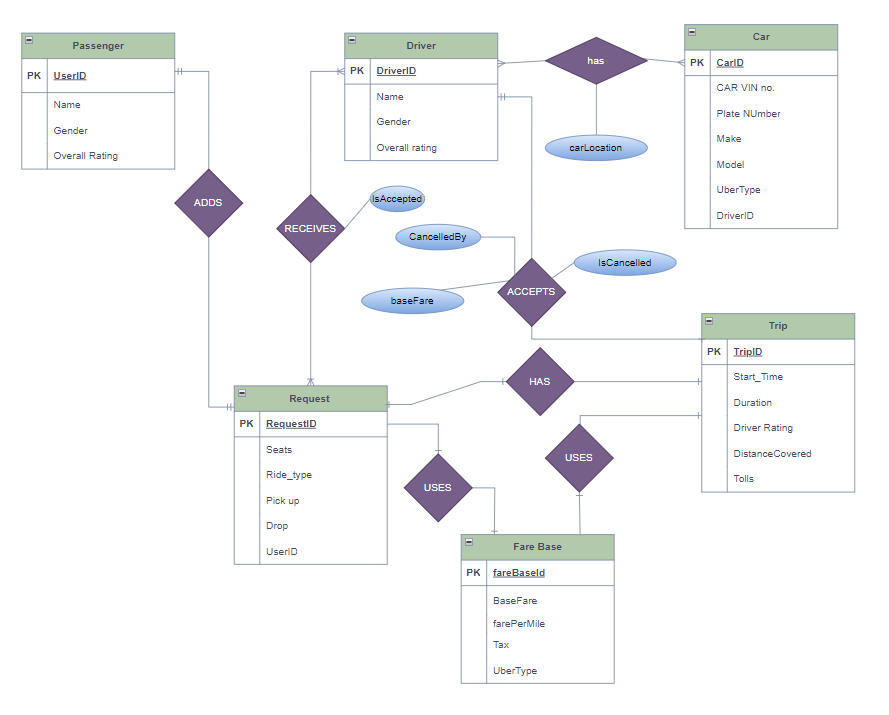
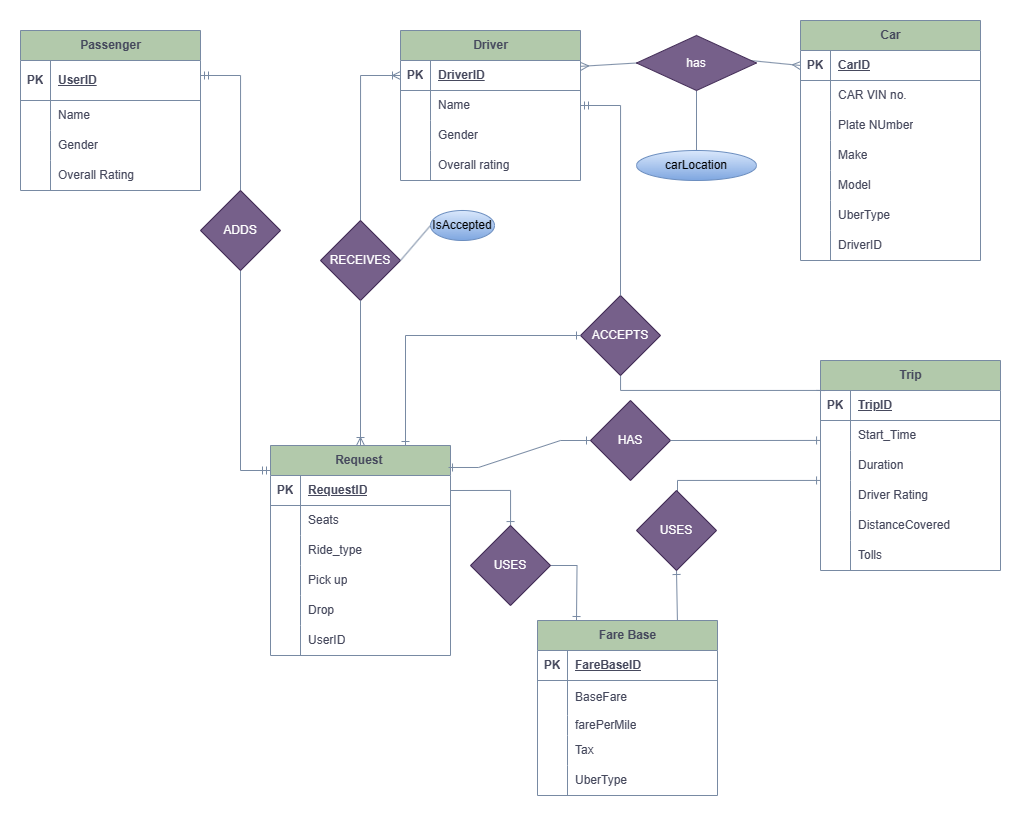
Final Update to A2

diff --git a/A2-Cassandra-Query-First-Design/Uber_Cassandra-Query-First-Design.md b/A2-Cassandra-Query-First-Design/Uber_Cassandra-Query-First-Design.md
@@ -27,7 +27,7 @@ The following results and outcomes were obtained as a part of the Big Data Analy
 
 ## Section: II RDBMS Schema Analysis
 
-The below ER diagram(figure1.1) shows the high-level design for the Uber passenger ride app, using which the Relationational modeling with the tables and the columns are built and presented in the Relational Modelling section (figure 1.2).
+The below ER diagram (Figure 1-1) shows the high-level design for the Uber passenger ride app, using which the Relationational modeling with the tables and the columns are built and presented in the Relational Modelling section (Figure 1-2).
 
 ### Entity Relation
 
@@ -61,15 +61,15 @@ The below diagram is built considering the Data driven approach.
 
 ![alt text](images/uber_physical_design.png)
 
-_Figure 1-2. Physical data model for Uber application_
+_Figure 1-2. System Design for Uber application_
 
 ## Section: III Query Analysis
 
-In the dynamic world of ride-sharing applications, quick and reliable access to data is key to a smooth experience for both riders and drivers.To build an application that meets these needs, our team has carefully considered which queries are most important for its operation. This isn't just about making sure we can show users the information they want when they want it; it's about laying the foundation for our database design. With Cassandra as our chosen database, we start with the queries first to make sure we're setting it up in a way that will be fast, efficient, and scalable. These queries form the core of the application’s functionality, driving the interaction between passengers and drivers. To design an efficient schema for a distributed database like Cassandra, it is essential to identify and analyze these key queries.Here, we present the essential queries that will drive the functionality of our application, ensuring users can find rides, get fare estimates, and drivers can manage their earnings effectively.
+In the dynamic world of ride-sharing applications, quick and reliable access to data is key to a smooth experience for both riders and drivers. To build an application that meets these needs, our team has carefully considered which queries are most important for its operation. This isn't just about making sure we can show users the information they want when they want it; it's about laying the foundation for our database design. With Cassandra as our chosen database, we start with the queries first to make sure we're setting it up in a way that will be fast, efficient, and scalable. These queries form the core of the application’s functionality, driving the interaction between passengers and drivers. To design an efficient schema for a distributed database like Cassandra, it is essential to identify and analyze these key queries.Here, we present the essential queries that will drive the functionality of our application, ensuring users can find rides, get fare estimates, and drivers can manage their earnings effectively.
 
-### Query Descriptions
+### Queries
 
-Below is a detailed analysis of the queries and their significance in the application workflow where a passenger is requesting a ride from pick up location to a destination location using Uber rideshare app. The passenger is looking for various options such as nearest pickup location/ shortest pickup time along with the cheapest fare.
+Below is a detailed analysis of the queries and their significance in the application workflow where a passenger is requesting a ride from pick up location to a destination location using Uber rideshare app. The passenger is looking for various options such as nearest pickup location / shortest pickup time along with the cheapest fare.
 
 **Q1: Find and load user profile.**
 
@@ -135,7 +135,7 @@ Optimize the route during the trip based on current traffic conditions to reduce
 
 ### Design
 
-In transitioning from a Relational Database Management System (RDBMS) schema to a Cassandra schema, the primary focus is on optimizing data access patterns rather than normalizing data. Cassandra is designed to offer high availability and scalability, often at the expense of some transactional consistency that is inherent to RDBMS. The "Query First" approach in Cassandra involves designing the schema based on the queries you intend to run, which contrasts with the RDBMS approach of designing the schema based on the relationships between the data.
+For ridesharing applications like Uber, timely and reliable data access is crucial for an optimal user experience for both riders and drivers. Based on the functional design of the Uber application for the passengers and drivers, a foundational database is designed. Query first design approach is chosen to display necessary information to both passenger and drivers. Cassandra has been selected as the database due to its ability to handle the required queries efficiently and scale effectively. The outlined queries are designed to enhance the application's core functions, such as ride-finding, fare estimation, and driver earnings management.
 
 ![alt text](images/Cassandra_RL.png)
 _Figure 1-3. Cassandra Logical Datamodel_
@@ -224,7 +224,7 @@ CREATE TABLE Uber_ridesharing.nearby_cars (
   location_id UUID,
   car_id UUID,
   driver_id UUID,
-  PRIMARY KEY ((location_lat, location_long,is_available), car_id)
+  PRIMARY KEY ((driver_location_lat, driver_location_long,is_available), car_id)
 );
 
 CREATE TABLE Uber_ridesharing.fare_base (
@@ -288,7 +288,7 @@ CREATE TABLE Uber_ridesharing.driver_earnings (
   tips FLOAT,
   fare FLOAT,
   PRIMARY KEY ((driver_id, start_date),trip_id)
-) WITH CLUSTERING ORDER BY (start_date DESC);
+) ;
 
 CREATE TABLE Uber_ridesharing.pickup_locations_analytics (
   pick_location_lat DOUBLE,
@@ -301,7 +301,7 @@ CREATE TABLE Uber_ridesharing.pickup_locations_analytics (
   PRIMARY KEY ((pick_location_lat, pick_location_long),trip_id)
 );
 
-CREATE TABLE destination_locations_analytics (
+CREATE TABLE Uber_ridesharing.destination_locations_analytics (
   location_lat DOUBLE,
   location_long DOUBLE,
   destination_address TEXT,
@@ -320,23 +320,23 @@ The project successfully transitioned the relational data model from an ER diagr
 
 ### Design Philosophies:
 
-The shift from a normalized relational database model to a denormalized Cassandra model required a fundamental change in thinking. Instead of focusing on data relationships and integrity, the priority shifted towards optimizing access patterns for scalability and performance.
+The shift from a normalized relational database model to a denormalized Cassandra model required a fundamental change in thinking. Instead of focusing on data relationships and integrity, the priority shifted towards building query access patterns and gain optimum performance.
 
 ### Scalability and Performance:
 
-By prioritizing queries and structuring the Cassandra schema around them, the design effectively supports high scalability and performance. This approach allows Uber's ride-sharing service to handle large volumes of data transactions distributed across multiple nodes, which is crucial for real-time applications.
+By using query first approach the Cassandra schema is structured. The design effectively supports high scalability and performance. This approach allows Uber's ride-sharing service to handle large volumes of data transactions distributed across multiple nodes, which is crucial for real-time applications.
 
 ### Trade-offs:
 
-The transition involved trade-offs, particularly in terms of transactional consistency and data redundancy. While Cassandra enhances availability and partition tolerance, it does so at the expense of strong consistency. Moreover, data redundancy increases due to denormalization, which can lead to higher storage requirements.
+The transition from RDBMS to NoSQL (using Cassandra) involves trade-offs, particularly in terms of transactional consistency and data redundancy. While Cassandra enhances availability and partition tolerance, it does so at the expense of strong consistency. Moreover, data redundancy increases due to denormalization, which can lead to higher storage requirements and can potentially lead to consistency issues.
 
 ### Application Functionality:
 
-Aligning the database design with specific application queries ensured that the database efficiently supports the core functionalities of the Uber ride-sharing application, such as real-time ride tracking, fare calculations, and efficient matching of drivers and passengers.
+Aligning the database design with high in-demand application queries ensures that the database efficiently supports the core functionalities of the Uber ride-sharing application, such as real-time ride tracking, fare calculations, and efficient matching of drivers and passengers.
 
-### Challenges in NoSQL Implementation:
+### Challenges in NoSQL (Cassandra) Implementation:
 
-Implementing Cassandra posed challenges, particularly in handling complex queries that are typically straightforward in SQL databases, such as joins and complex aggregations. Designing the schema to efficiently support these operations required creative strategies, such as using pre-computed aggregates and carefully designed partition keys.
+Working with cassandra poses challenges, particularly in handling complex queries that are typically straightforward in SQL databases, such as joins and complex aggregations. Designing the schema to efficiently support these operations requires creative strategies like carefully designed partition keys.
 
 Overall, the project illuminated the intricacies of using a NoSQL database like Cassandra in a real-world, high-demand application. It also highlighted the importance of a detailed query analysis to drive schema design, ensuring that the database aligns with application requirements and performance expectations.
 
@@ -347,19 +347,18 @@ This project demonstrated the effective application of the "Query First" design 
 Key achievements include:
 
 - Successful translation of an RDBMS schema to a NoSQL Cassandra model.
-- Improved handling of dynamic, high-volume data transactions across a distributed system.
+- Improved handling of dynamic, high-volume data transactions across a distributed nodes.
 - Alignment of database functionality with core business operations, optimizing for common queries to enhance user experience.
 
 ### Future Directions:
 
-Continuous monitoring and optimization of the schema as new queries and data access patterns emerge.
-Exploration of additional NoSQL features and tools to further enhance data retrieval and analytics capabilities.
-Incremental improvements in data consistency mechanisms while maintaining the high availability and performance that Cassandra offers.
+Continuous monitoring and optimization of the schema as new queries and data access patterns emerge.Incremental improvements in data consistency mechanisms while maintaining the high availability and performance that Cassandra offers.The shift to a denormalized data model will influence how data is managed, updated, and maintained, requiring a robust strategy for handling data mutations.
+
 In conclusion, this project not only supports the operational needs of Uber's ride-sharing platform but also serves as a valuable case study for similar applications looking to leverage NoSQL solutions for Big Data challenges.
 
 ## Section: VII Appendix
 
-### SQL Queries to Address the Questions
+### Draft SQL Queries to Address the Questions
 
 -- Q1: Load customer profile for a given user_id
 
@@ -466,7 +465,7 @@ FROM fare_estimate
 WHERE trip_id = 887766; -- trip_id  would come from App
 ```
 
-### CQL Queries to Address the questions
+### Draft CQL Queries to Address the questions
 
 -- Q1: Load customer profile for a given user_id
 
